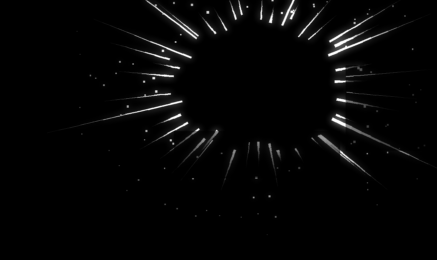
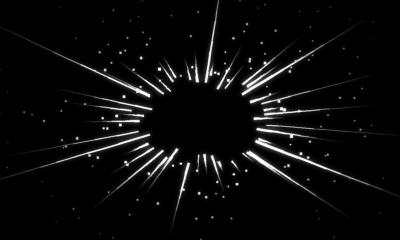
입자 모양의 중심을 이름과 대표 영상 사이로 옮기고 크기를 줄임, AKA는 에너지가 모여드는 모양
Claude-Session: https://claude.ai/code/session_01Sa7yTYtcoDL1XnCW4rccMs

diff --git a/grain.js b/grain.js
@@ -4,12 +4,13 @@
 // 이 스크립트가 없거나 실패하면 넓은 화면에서는 기존의 단색 도형이 그대로 보인다.
 const host = document.querySelector(".portfolio-profile");
 const stage = document.querySelector(".featured-stage");
+const nameEl = document.querySelector(".profile-identity h1");
 const tabs = [...document.querySelectorAll(".featured-more a[data-work]")];
 const wide = window.matchMedia("(min-width: 80rem)");
 const reduceMotion = window.matchMedia("(prefers-reduced-motion: reduce)");
 
-// 모양 그림은 437x260칸이고 모양의 중심이 (257, 84)칸에 있다. 한 칸은 대표 영상 너비의 1/104이다.
-const MAP_W = 437, MAP_H = 260, VIDEO_X = 257, VIDEO_Y = 84, VIDEO_W = 156;
+// 모양 그림은 400x240칸이고 모양의 중심이 (200, 120)칸에 있다. 한 칸은 대표 영상 너비의 약 1/104이다.
+const MAP_W = 400, MAP_H = 240, VIDEO_X = 200, VIDEO_Y = 120, VIDEO_W = 156;
 const BAYER = [0,32,8,40,2,34,10,42,48,16,56,24,50,18,58,26,12,44,4,36,14,46,6,38,60,28,52,20,62,30,54,22,
   3,35,11,43,1,33,9,41,51,19,59,27,49,17,57,25,15,47,7,39,13,45,5,37,63,31,55,23,61,29,53,21];
 const MOVE = 600, MOVE_LAG = 160; // 밀리초: 점이 새 자리로 가는 시간, 점마다 출발을 늦추는 최대 폭
@@ -21,7 +22,7 @@ const clamp01 = u => Math.min(1, Math.max(0, u));
 
 async function loadShape(slug) {
   const image = new Image();
-  image.src = `./assets/grain/${slug}.png?v=3`;
+  image.src = `./assets/grain/${slug}.png?v=6`;
   await image.decode();
   const canvas = document.createElement("canvas");
   canvas.width = MAP_W; canvas.height = MAP_H;
@@ -85,13 +86,15 @@ async function start() {
   function layout() {
     const box = host.getBoundingClientRect();
     const video = stage.getBoundingClientRect();
-    // 넓은 화면: 굵은 입자로 화면 가운데에. 좁은 화면: 입자를 줄여서 대표 영상을 중심으로(모양의 양옆은 화면 밖으로 나간다).
-    const cell = wide.matches ? video.width / VIDEO_W * 1.5 : Math.min(video.width / VIDEO_W * 1.5, box.width / 150);
+    // 넓은 화면: 모양의 중심을 이름과 대표 영상 사이의 빈 곳에 둔다.
+    // 좁은 화면: 대표 영상을 중심으로 두고, 모양이 영상 밖으로 보이도록 입자를 키운다.
+    const cell = wide.matches ? video.width / VIDEO_W * 1.5 : box.width / 90;
     canvas.width = Math.ceil(box.width / cell);
     canvas.height = Math.ceil(box.height / cell);
     if (wide.matches) {
-      offsetX = Math.round(box.width * .5 / cell) - VIDEO_X;
-      offsetY = Math.round(box.height * .52 / cell) - VIDEO_Y;
+      const name = nameEl.getBoundingClientRect();
+      offsetX = Math.round((name.right + (video.left - name.right) * .72 - box.left) / cell) - VIDEO_X;
+      offsetY = Math.round(box.height * .53 / cell) - VIDEO_Y;
     } else {
       offsetX = Math.round((video.left - box.left + video.width / 2) / cell) - VIDEO_X;
       offsetY = Math.round((video.top - box.top + video.width * 9 / 32) / cell) - VIDEO_Y;
@@ -177,4 +180,4 @@ async function start() {
   document.fonts?.ready.then(() => { layout(); show(shown, false); });
 }
 
-if (host && stage && tabs.length) start().catch(() => host.classList.remove("has-grain"));
+if (host && stage && nameEl && tabs.length) start().catch(() => host.classList.remove("has-grain"));

diff --git a/index.html b/index.html
@@ -23,7 +23,7 @@
   <link rel="stylesheet" href="./portfolio.css?v=pad-1">
   <script type="module" src="./dock.js?v=cool-1"></script>
   <script type="module" src="./work-deck.js?v=fade"></script>
-  <script type="module" src="./grain.js?v=7"></script>
+  <script type="module" src="./grain.js?v=8"></script>
 </head>
 <body class="home-page portfolio-page portfolio-home portfolio-nav-page">
 <div class="page">
